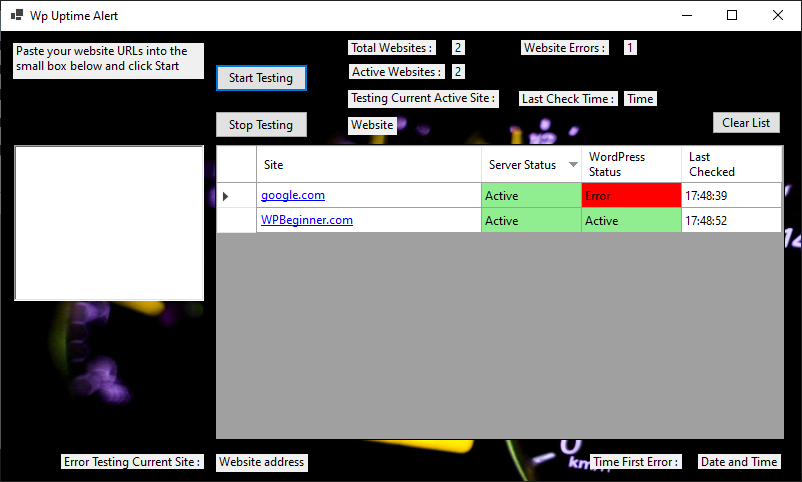
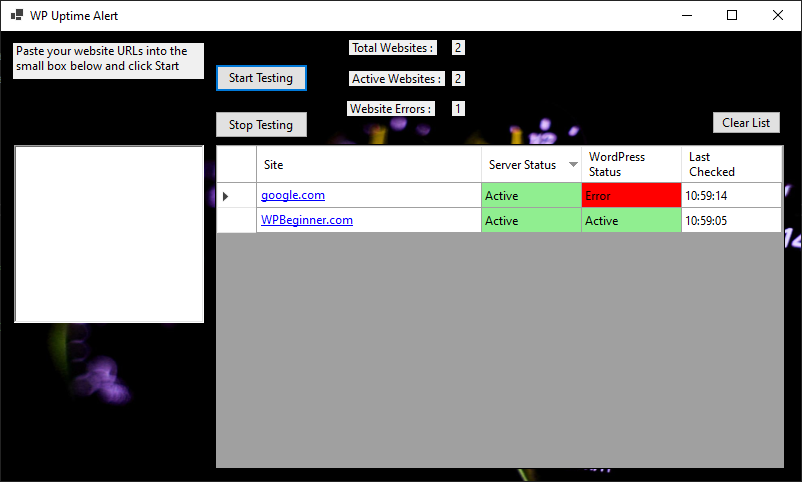
Updated preview image, and clear function correctly working now

diff --git a/Form1.cs b/Form1.cs
@@ -433,17 +433,21 @@ namespace wp_uptime_alert
             {
                 richTextBox1.Clear();
                 dt.Rows.Clear();
+
+                // Refresh the DataGridView
+                dataGridView1.DataSource = null;
+                dataGridView1.DataSource = dt;
+                dataGridView1.Refresh();
             }
             else if (dialogResult == DialogResult.No)
             {
                 //do something else
             }
 
-
-            LabelUpdates.updateWebsiteLabels(total_websites_label, label5, label7,  dt, dtBlacklist);
-
-
+            LabelUpdates labelUpdates = new LabelUpdates();
+            labelUpdates.updateWebsiteLabels(total_websites_label, label5, label7,  dt, dtBlacklist);
         }
+
 
 
 
